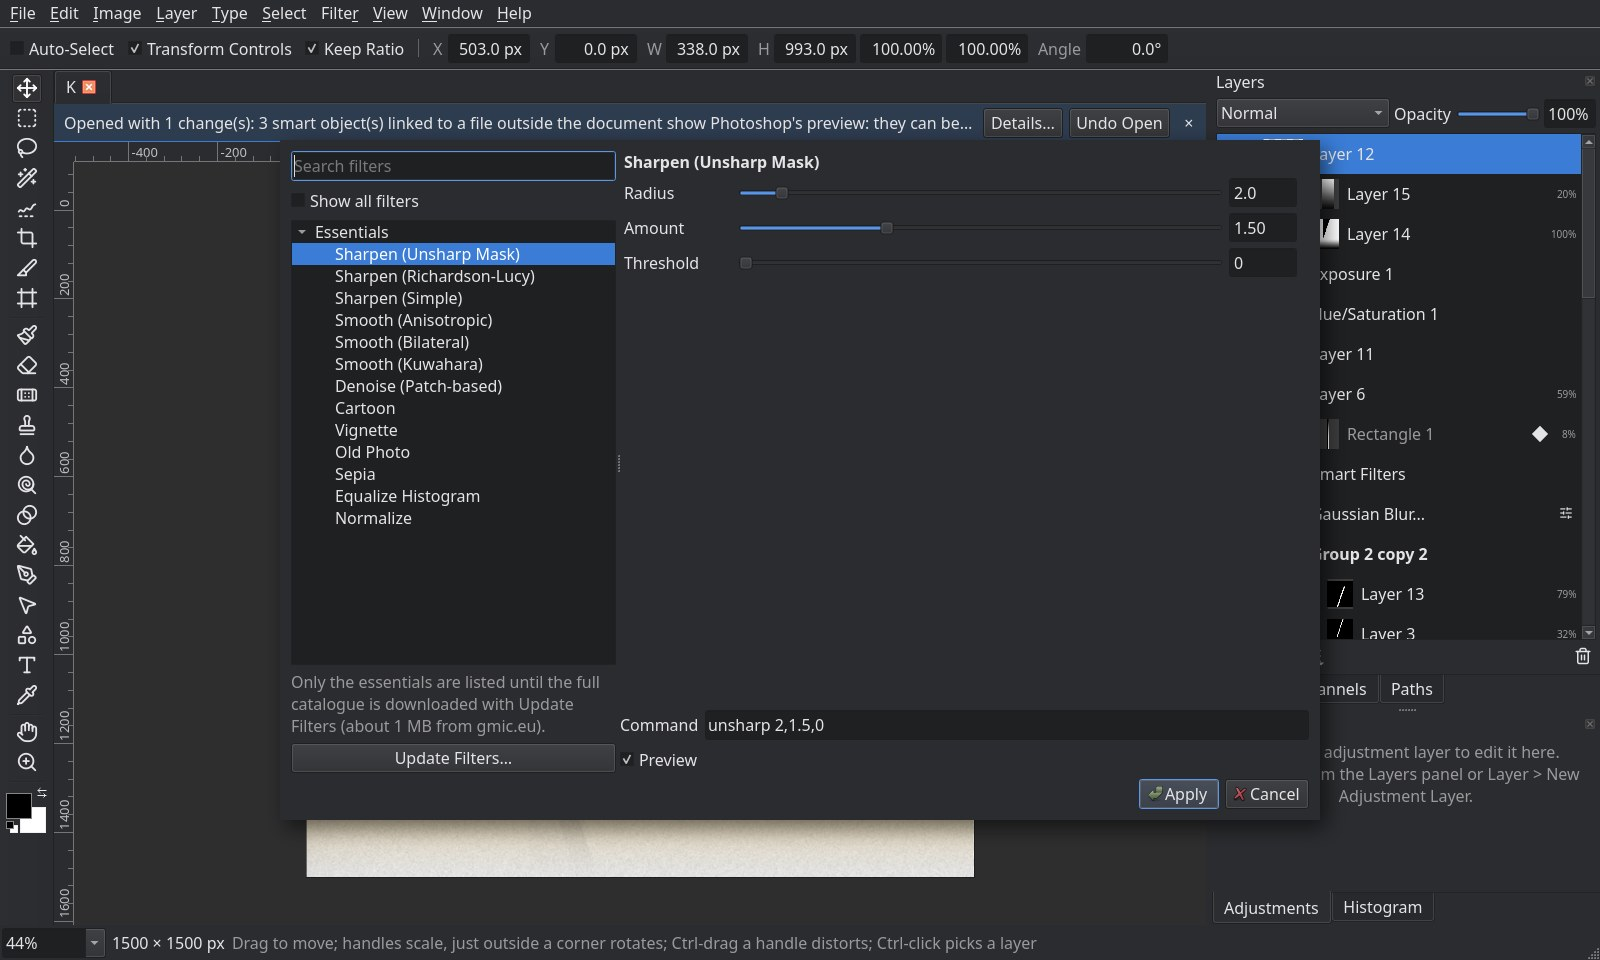
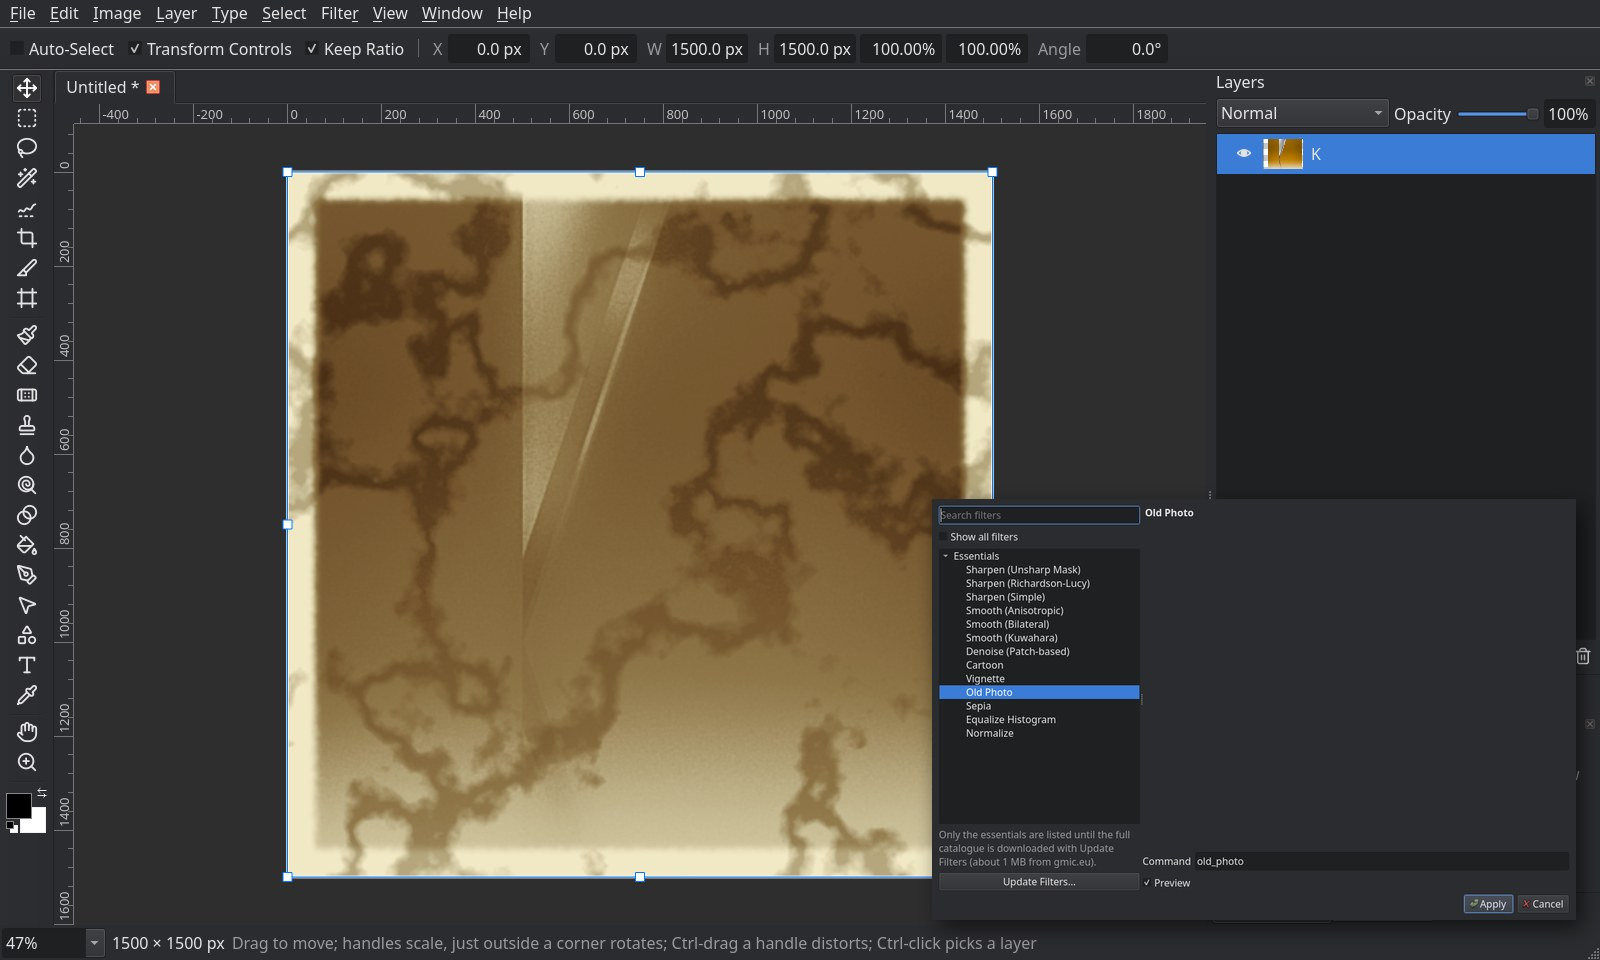
Retake the G'MIC screenshot with Old Photo; dialog screenshots hide the import notes and also save the window
COMPOSITOR_SCREENSHOT_DELAY waits for a background preview.

diff --git a/src/app/main.cpp b/src/app/main.cpp
@@ -23,6 +23,7 @@
 #include "FilterDialog.h"
 #include "HistogramPanel.h"
 #include "GmicDialog.h"
+#include "ImportBanner.h"
 #include "MoshDialog.h"
 #include "BrushDynamicsDialog.h"
 #include "BrushPicker.h"
@@ -462,6 +463,7 @@ int run(int argc, char** argv) {
                 {"photo-filter", AdjustmentKind::PhotoFilter}, {"channel-mixer", AdjustmentKind::ChannelMixer}, {"selective-color", AdjustmentKind::SelectiveColor}};
             static const QMap<QString, FilterKind> filters{{"blur", FilterKind::GaussianBlur}, {"motion-blur", FilterKind::MotionBlur}, {"noise", FilterKind::AddNoise}, {"lens", FilterKind::LensCorrection}};
             app::EditorSession* s = window.session();
+            if (auto* banner = window.findChild<app::ImportBanner*>()) banner->hide();   // dialog shots show the dialog, not an open's notes
             if (adjustments.contains(name)) (new app::PixelAdjustmentDialog(s, adjustments.value(name), &window))->show();
             else if (name == "levels-clip" || name == "curves-clip") {
                 // The clipping display as Alt on the white point (Levels, Input white at 170) or the black point
@@ -674,11 +676,15 @@ int run(int argc, char** argv) {
     }
     if (parser.isSet(screenshot)) {
         QString target = parser.value(screenshot), savePath = parser.value(saveAs);
-        QTimer::singleShot(400, &window, [&window, target, savePath, preferences] {
+        // COMPOSITOR_SCREENSHOT_DELAY (ms) waits longer, for a preview that runs in the background.
+        const int delay = qEnvironmentVariableIsSet("COMPOSITOR_SCREENSHOT_DELAY") ? qEnvironmentVariableIntValue("COMPOSITOR_SCREENSHOT_DELAY") : 400;
+        QTimer::singleShot(delay, &window, [&window, target, savePath, preferences] {
             QWidget* subject = preferences;
             if (!subject) for (QWidget* w : QApplication::topLevelWidgets()) if (w->isVisible() && qobject_cast<QDialog*>(w)) subject = w;
             for (QWidget* w : QApplication::topLevelWidgets()) if (w->isVisible() && w->windowType() == Qt::Popup) subject = w;   // a dropped-down picker wins
             (subject ? subject->grab() : window.grab()).save(target);
+            // A dialog's shot also saves the window behind it, its preview on the canvas, as <name>.window.<ext>.
+            if (subject) { QFileInfo info(target); window.grab().save(info.path() + "/" + info.completeBaseName() + ".window." + info.suffix()); }
             if (!savePath.isEmpty()) { QString error; window.session()->saveProject(savePath, &error); if (!error.isEmpty()) qWarning("%s", qPrintable(error)); }
             // exit() rather than quit(): newer Qt closes the windows on quit(), and the unsaved demo would prompt.
             QCoreApplication::exit(0);
